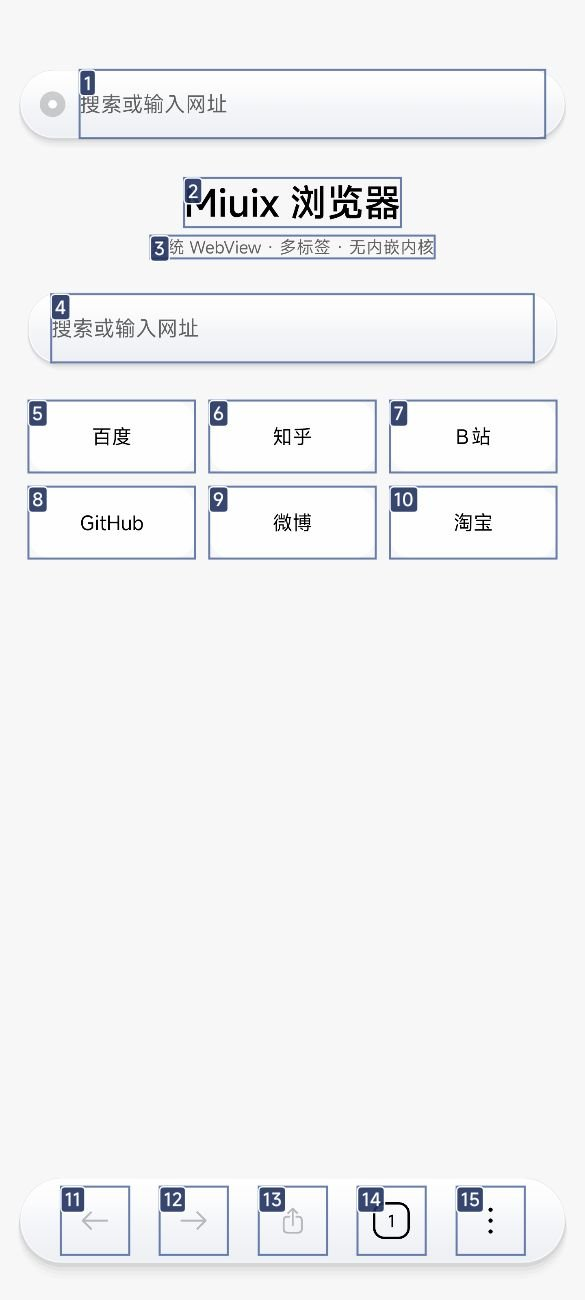
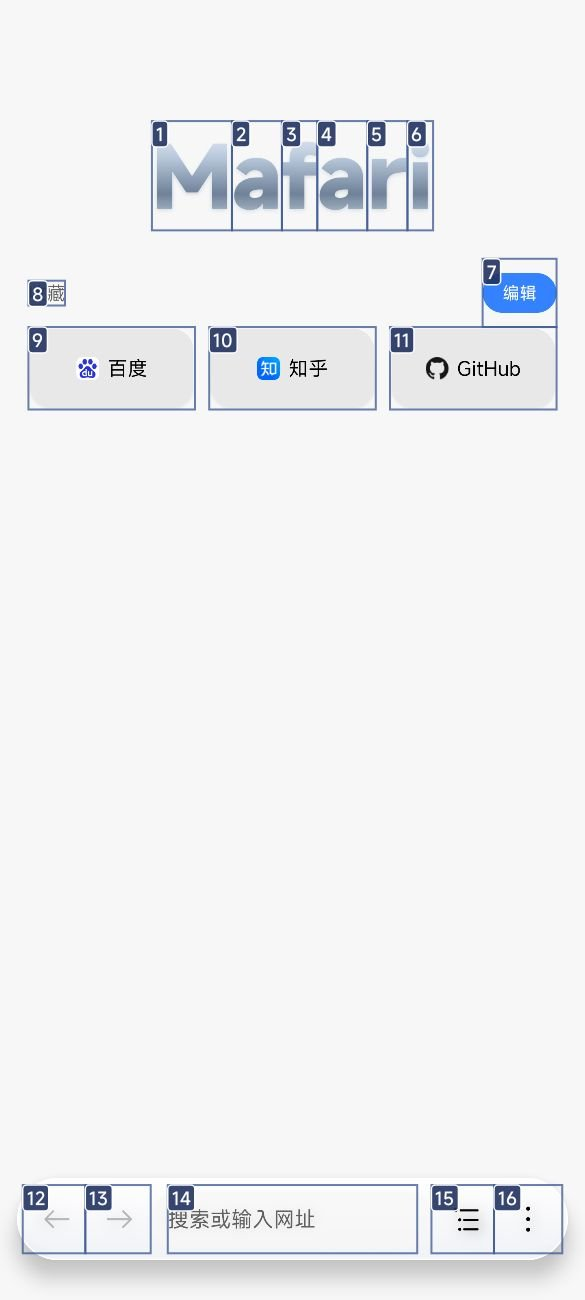
feat: 关于页项目地址 + 检查更新; docs: 精简 README 并更新截图

Changed region(s): [[0.0308, 0.1846, 0.9538, 0.4308], [0.0615, 0.0308, 0.9538, 0.2154], [0.0308, 0.8923, 0.9846, 0.9846]]

diff --git a/app/src/main/java/dev/dsh/miuixbrowser/SettingsScreen.kt b/app/src/main/java/dev/dsh/miuixbrowser/SettingsScreen.kt
@@ -35,6 +35,12 @@ import androidx.compose.foundation.layout.statusBarsPadding
 import androidx.compose.foundation.layout.asPaddingValues
 import androidx.compose.ui.unit.dp
 import androidx.compose.ui.unit.sp
+import android.widget.Toast
+import androidx.compose.runtime.rememberCoroutineScope
+import kotlinx.coroutines.Dispatchers
+import kotlinx.coroutines.launch
+import kotlinx.coroutines.withContext
+import androidx.compose.foundation.layout.height
 import top.yukonga.miuix.kmp.basic.TextField
 import top.yukonga.miuix.kmp.basic.ButtonDefaults
 import top.yukonga.miuix.kmp.basic.Card
@@ -211,9 +217,20 @@ fun SettingsScreen(
                     modifier = Modifier
                         .fillMaxWidth()
                         .padding(horizontal = 12.dp),
-                    insideMargin = PaddingValues(16.dp),
+                    insideMargin = PaddingValues(0.dp),
                 ) {
-                    Column {
+                    SettingsRow(
+                        title = "项目地址",
+                        summary = PROJECT_URL,
+                        onClick = {
+                            runCatching {
+                                context.startActivity(
+                                    Intent(Intent.ACTION_VIEW, android.net.Uri.parse(PROJECT_URL)),
+                                )
+                            }
+                        },
+                    )
+                    Column(modifier = Modifier.padding(16.dp)) {
                         Text("Mafari", fontSize = 16.sp, color = MiuixTheme.colorScheme.onSurface)
                         Spacer(Modifier.height(8.dp))
                         Text(
@@ -308,6 +325,69 @@ private fun webViewVersion(): String? {
         runCatching { WebViewCompat.getCurrentWebViewPackage(context)?.versionName }.getOrNull()
     }
 }
+
+private const val PROJECT_URL = "https://github.com/rosenii/mafari"
+private const val RELEASE_API = "https://api.github.com/repos/rosenii/mafari/releases/latest"
+
+@Composable
+private fun CheckUpdateButton() {
+    val context = LocalContext.current
+    val scope = rememberCoroutineScope()
+    var checking by remember { mutableStateOf(false) }
+    Box(
+        modifier = Modifier
+            .fillMaxWidth()
+            .padding(horizontal = 12.dp),
+        contentAlignment = Alignment.Center,
+    ) {
+        TextButton(
+            text = if (checking) "检查中…" else "检查更新",
+            onClick = {
+                if (checking) return@TextButton
+                checking = true
+                scope.launch {
+                    val result = withContext(Dispatchers.IO) { fetchLatestVersion() }
+                    checking = false
+                    if (result == null) {
+                        Toast.makeText(context, "检查失败，请稍后再试", Toast.LENGTH_SHORT).show()
+                    } else {
+                        val current = BuildConfig.VERSION_NAME.removePrefix("v")
+                        val latest = result.first.removePrefix("v")
+                        if (latest == current) {
+                            Toast.makeText(context, "已是最新版本 $current", Toast.LENGTH_SHORT).show()
+                        } else {
+                            Toast.makeText(context, "发现新版本 $latest", Toast.LENGTH_LONG).show()
+                            runCatching {
+                                context.startActivity(Intent(Intent.ACTION_VIEW, android.net.Uri.parse(result.second)))
+                            }
+                        }
+                    }
+                }
+            },
+            modifier = Modifier.fillMaxWidth(),
+        )
+    }
+}
+
+private fun fetchLatestVersion(): Pair<String, String>? = runCatching {
+    val connection = (java.net.URL(RELEASE_API).openConnection() as java.net.HttpURLConnection).apply {
+        connectTimeout = 8000
+        readTimeout = 8000
+        setRequestProperty("User-Agent", "mafari")
+        setRequestProperty("Accept", "application/vnd.github+json")
+    }
+    try {
+        if (connection.responseCode !in 200..299) return@runCatching null
+        val text = connection.inputStream.bufferedReader().readText()
+        val tag = Regex("\"tag_name\"\\s*:\\s*\"([^\"]+)\"").find(text)?.groupValues?.get(1)
+            ?: return@runCatching null
+        val url = Regex("\"html_url\"\\s*:\\s*\"([^\"]+)\"").find(text)?.groupValues?.get(1)
+            ?: PROJECT_URL + "/releases"
+        tag to url
+    } finally {
+        connection.disconnect()
+    }
+}.getOrNull()
 
 private fun uaSummary(ua: String): String = when {
     ua.isBlank() -> "跟随系统"

diff --git a/README.md b/README.md
@@ -1,150 +1,73 @@
-# Mafari 浏览器
+# Mafari
 
-基于 **MIUIX（Compose Multiplatform 版）** 的 Android 浏览器，网页渲染用**系统 WebView**，不内嵌 Chromium 内核：安装包小（debug ≈ 11.6 MB），能跟随系统 WebView 一起更新。
+基于 **MIUIX**（Compose Multiplatform）+ **系统 WebView** 的 Android 浏览器。不内嵌 Chromium 内核，安装包约 1.5 MB（R8 精简后）。
 
-| 主页 | 网页 | 弹层 |
+## 界面
+
+| 主页 | 更多面板 | 设置 |
 | --- | --- | --- |
-| ![主页](docs/screenshot-home.jpg) | ![网页](docs/screenshot-page.jpg) | ![弹层](docs/screenshot-sheet.jpg) |
+| ![主页](docs/screenshot-home.jpg) | ![更多](docs/screenshot-menu.jpg) | ![设置](docs/screenshot-settings.jpg) |
 
-## 界面（iOS Safari 风格）
+| 网页 |
+| --- |
+| ![网页](docs/screenshot-page.jpg) |
 
-- **全屏沉浸**：网页铺满整屏，画到状态栏和手势小白条下面；底栏留出 `navigationBarsPadding()`，小白条始终可见。
-- **Mafari** 字标：居中、58sp、Black 字重、每字母一色（Google 风格）
-- **单条悬浮玻璃底栏**：地址胶囊嵌在栏中间，两侧是 `‹` `›`、标签页（带数量角标）、更多。
-- **主页收藏可编辑**：主页「收藏」右侧的「编辑」，可长按改名/改网址、点 × 删除、+ 添加收藏，数据存在 SharedPreferences 里。
-- **动效**：按钮按下缩放（弹簧）、底栏随滚动下沉 + 淡出 + 轻微缩放、弹层滑入、加载小圆点呼吸。
-- **模糊**：PixelCopy 抓底栏区域 → 缩到 1/8 → 放大绘制，再叠半透明底色和高光描边；设置里可关。
-- **弹窗**：收藏编辑 / 自定义 DoH 都走 MIUIX `OverlayDialog`（外层套 MIUIX `Scaffold` 提供宿主）。注意采样图层里不能放 WebView，否则页面会闪烁；现在采样层只有 Compose 背景。
+- 单条悬浮玻璃底栏：`‹` `›` + 地址胶囊 + 标签页 + 更多
+- 主页液态玻璃字标、收藏（带 favicon、可编辑、模糊底 + 高光描边）
+- 全部弹层走 MIUIX 规范：`OverlayDialog` / 自制面板（spring 滑入）
+- 状态栏：初始留白，向下滚动顶满，回顶回落
 
 ## 功能
 
-- 多标签页：底栏标签按钮打开面板，切换 / 关闭 / 新建；每个标签独立 WebView 与状态
-- 地址栏：自动区分网址与搜索词（搜索走百度），回车即加载
-- 后退 / 前进 / 刷新 / 停止、加载进度、加载失败页
-- 主页：搜索框 + 常用站点宫格
-- 长按链接：打开、新标签打开、复制链接、外部浏览器打开
-- 文件下载交给系统 DownloadManager；`alipay://`、`weixin://` 等外部协议交给系统
-- 跟随系统深色模式（MIUIX `ThemeController` + 自定义玻璃配色）
+**浏览**
+- 多标签（文字列表 / 卡片两种样式）、前进后退刷新、加载进度
+- 地址栏可选显示：网站标题 / 主域名 / 完整域名
+- 下拉刷新（4cm 触发，顶部有刷新动画）
+- 页面内查找、翻译、分享、复制链接、外部浏览器打开、长按链接菜单
+- 首页打开网页后，后退可回到主页
 
-## 设置（MIUIX Preference）
+**脚本（油猴）**
+- 支持 `@name` / `@match` / `@include` / `@run-at` 元数据
+- `document-start` 脚本在页面可见时注入，其余在加载完成注入
+- GM API 垫片：`GM_setValue/getValue/deleteValue/listValues/addStyle/xmlhttprequest/notification/openInTab/registerMenuCommand/info`、`unsafeWindow`
+- 从 URL 导入 `.user.js`、一键更新；自动识别 `.user.js` 链接并弹导入确认
 
-「更多 → 设置」进入 KernelSU 那种 MIUIX 设置页：
+**下载**
+- 内置下载器（不走系统下载器），先写缓存再入库到 `/sdcard/Download/mafari`
+- 4 线程分段下载（服务器支持 Range 时）、断点续传、暂停/继续、失败重试、删除记录与文件
+- 前台服务 + 进度通知；按小米官方文档接入**超级岛**（`miui.focus.param`，仅在开始下载时上岛）
 
-- **底栏柔光玻璃**：`SwitchPreference`，关掉后底栏只保留半透明底色
-- **关于**：版本与依赖说明
+**其他**
+- 收藏 / 历史（最多 300 条）/ 下载管理 / 脚本管理
+- 设置：显示模式（跟随系统/日间/夜间）、主页壁纸、柔光玻璃、搜索引擎、自定义 UA、检查更新
+- 网页弹窗（`window.open`）在当前标签打开
 
-> 网页本身由系统 WebView 解析域名，选择的自定义 DNS 目前应用在应用内请求（如收藏图标抓取）上。
+## 部署
 
-## 技术栈
-
-| 项目 | 版本 |
-| --- | --- |
-| MIUIX (`top.yukonga.miuix.kmp`) | 0.9.4 |
-| Kotlin / Compose Multiplatform | 2.4.20 / 1.12.0 |
-| AGP / Gradle | 9.4.1 / 9.7.1 |
-| compileSdk / targetSdk / minSdk | 37 / 36 / 26 |
-
-> AGP 9 起 Kotlin 内置，工程不再应用 `org.jetbrains.kotlin.android`，只应用 `org.jetbrains.kotlin.plugin.compose`。
-
-## 目录
-
-```
-app/src/main/java/dev/dsh/miuixbrowser/
-├── MainActivity.kt   # 入口、全屏沉浸（透明系统栏 + 深浅色图标）
-├── BrowserState.kt   # BrowserTab（每标签一个 WebView）/ BrowserState（多标签）
-└── BrowserScreen.kt  # 悬浮玻璃地址胶囊、悬浮底栏、主页、弹层
-.github/workflows/build.yml   # 推到 GitHub 自动出 APK
-```
-
-## 构建
+### 本地构建
 
 ```bash
-# 需要 JDK 17+ 和 Android SDK（platforms;android-37.0、build-tools;36.0.0）
-./gradlew :app:assembleDebug
-# 产物：app/build/outputs/apk/debug/app-debug.apk
+# 需要 JDK 17+、Android SDK（platforms;android-37.0、build-tools;36.0.0）
+./gradlew :app:assembleDebug     # app/build/outputs/apk/debug/app-debug.apk
 ```
 
-Android Studio 直接打开本目录也可以；推 GitHub 后 Actions 里能下 `miuix-browser-debug`。
+### GitHub Actions 自动发布
 
-## 关于模糊的三个坑
-
-1. **按钮「点了没反应」**：弹层刚出现时，打开它的那一次点击的抬手事件会落到遮罩/列表上，弹层一闪就被关掉（早期用库的 `OverlayBottomSheet` 时更明显）。
-   现在弹层在同一个 Compose 窗口里自绘，并且弹出后的 220ms 内吞掉所有触摸（`pointerInput` + `armed` 状态），
-   遮罩和行按钮都在这之后再响应。
-0. **MIUIX 的 `miuix-blur`（backdrop）不能用在 WebView 上**：它把下层画面录进 GraphicsLayer 再模糊，
-   而 WebView 是系统 View、录不进去；强行使用时底栏会被画成全透明，页面一渲染还会崩。
-   所以改成「快照模糊」：`webView.draw(canvas)` 缩到 1/12 再放大绘制，更新频率 ~5Hz。
-2. **白底网页上玻璃看不见**：只靠 `Modifier.shadow` 在 MIUI 上几乎看不到，改成在 `drawBehind` 里手绘 4 层柔光投影 + 顶部高光 + 内外两道描边。
-
-## 关于「真·模糊」
-
-网页是系统 WebView 的独立 View 图层，Compose 的 backdrop/`layerBackdrop` 采样不到它的像素，
-所以底栏的玻璃是「半透明 + 高光 + 描边 + 投影」的静态玻璃，而不是实时高斯模糊。
-要做真模糊，需要另外截 WebView 画面（`webView.draw(canvas)` 到 bitmap）再模糊后画到栏底下，代价是滚动时掉帧，暂未做。
-
-## 脚本（兼容油猴元数据）
-
-「更多 → 脚本」可以新建一段 JavaScript，在页面加载完成后通过 `evaluateJavascript` 注入。支持 `// ==UserScript==` 里的 `@name` / `@match` / `@include` 自动识别，按 URL 匹配注入；支持从 URL 导入 `.user.js` 并一键更新。
-注意：没有实现 `GM_*` 运行时 API 和 `@require`，复杂脚本可能跑不起来。
-
-## 浏览器功能
-
-- 更多面板（图标宫格，可长按拖动排序）：主页 / 下载 / 扩展 / 历史 / 请求桌面网站 / 查找页内 / 翻译 / 收藏 / 分享 / 刷新 / 复制链接 / 外部打开 / 新建标签 / 关闭标签 / 设置
-- 设置：底栏柔光玻璃开关、自定义 UA（4 个预设 + 任意字符串，所有标签生效）、下载列表
-- 状态栏：打开页面时内容从状态栏下方开始；向下滚动时内容顶到状态栏（沉浸）；滑回顶部自动回落
-
-## 已知限制
-
-- 没有书签 / 历史 / 下载列表（下载在系统通知栏）
-- 标签不做进程重建恢复（App 被系统杀掉后标签丢失）
-- 全屏视频、文件选择器（`onShowFileChooser`）未接
-
-
-## 构建说明
+推 tag 即自动构建并创建 Release：
 
 ```bash
-./gradlew :app:assembleDebug     # debug 包
+git tag v3.3.0 && git push origin v3.3.0
 ```
 
-release 签名使用根目录 `mafari-release.jks`（alias `mafari`，口令 `mafari123`，仅用于本项目）。
-当前 AGP 9.4.1 在本机产出的 `app-release.apk` 缺少 `AndroidManifest.xml`（打包异常），
-因此 `mafari-2.1.0-release.apk` 是用 release 密钥对构建产物重新签名得到，可直接安装。
-
-
-## 发布到 GitHub 并自动出包
-
-### 1. 推到 GitHub
-
-```bash
-cd miuix-browser
-git init
-git add .
-git commit -m "mafari browser"
-git branch -M main
-git remote add origin https://github.com/<你的用户名>/<仓库名>.git
-git push -u origin main
-```
-
-### 2. 配置签名 Secrets（Settings → Secrets and variables → Actions）
+可选签名 Secrets（不配也能出 debug 包）：
 
 | Secret | 内容 |
 | --- | --- |
-| `KEYSTORE_BASE64` | `base64 -w0 mafari-release.jks` 的结果 |
-| `STORE_PASSWORD` | keystore 口令（本项目是 `mafari123`） |
-| `KEY_ALIAS` | `mafari` |
-| `KEY_PASSWORD` | key 口令（同上） |
+| `KEYSTORE_BASE64` | `base64 -w0 your.jks` |
+| `STORE_PASSWORD` | keystore 口令 |
+| `KEY_ALIAS` | key 别名 |
+| `KEY_PASSWORD` | key 口令 |
 
-> 没配签名 Secrets 时，工作流只发布 debug 包（仍然可直接安装），不会失败。
+## 项目地址
 
-### 3. 打 tag 自动发布
-
-```bash
-git tag v3.2.0
-git push origin v3.2.0
-```
-
-推送 tag 后 `.github/workflows/release.yml` 会：
-1. 构建 debug + release
-2. 检查 release 包是否有效（AGP 在本地产物可能缺 manifest，CI 上正常）
-3. 无效时改用 debug 包 + `apksigner` 重新签名
-4. 上传 artifacts，并自动创建一个 GitHub Release，把 APK 挂上去
+https://github.com/rosenii/mafari
